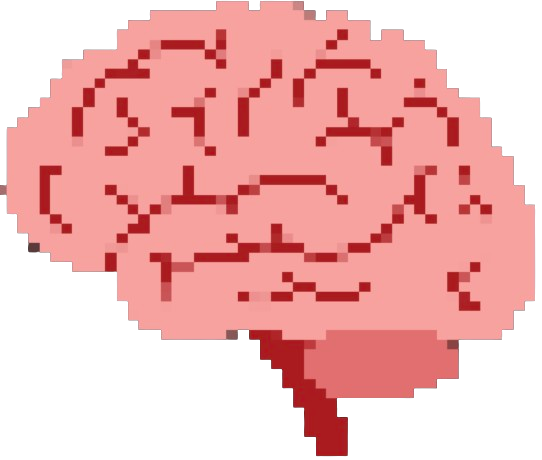
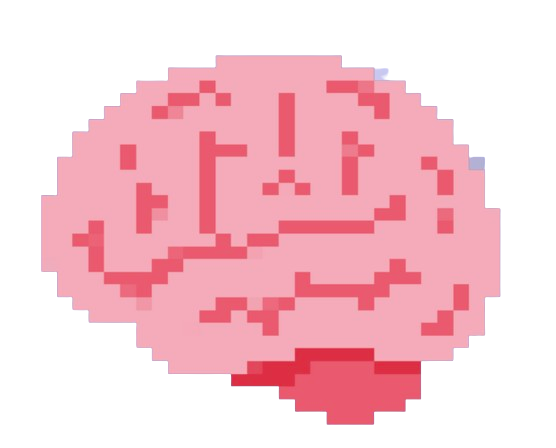
Add files via upload

diff --git a/script.js b/script.js
@@ -4,83 +4,130 @@ const boardWidth = 5;
 const boardHeight = 5;
 const stepSize = 50;
 
-// Add event listener for the DOMContentLoaded to initialize the page appropriately
-document.addEventListener('DOMContentLoaded', function ()
- {
+// Add event listener for the DOMContentLoaded to initialize page
+document.addEventListener('DOMContentLoaded', function() 
+{
   // Triggered when the start game button is clicked
   let startButton = document.getElementById('startButton');
   if (startButton) 
   {
     startButton.addEventListener('click', clicked);
   }
+  else 
+  {
+    scatterBrains(10);
+  }
 
-  // Set up character movement if on the game page
+  // Set up character image movement on game page
   appendCharacterImage();
   document.addEventListener('keydown', moveCharacter);
+  scatterBrains();
 });
 
-function clicked() {
+function clicked()
+ {
   let selectedLevel = document.querySelector('input[name="level"]:checked');
   let selectedCharacter = document.querySelector('input[name="character"]:checked');
-  
-  if (!selectedLevel || !selectedCharacter) {
+
+  if (!selectedLevel || !selectedCharacter)
+  // if user does not select a game & a character before starting
+  {
     alert("Please select both a difficulty level and a character before starting the game.");
     return;
   }
-  
+
   let levelValue = selectedLevel.value;
   let characterImageSrc = selectedCharacter.nextElementSibling.src;
 
   window.location.href = `${levelValue}Page.html?character=${encodeURIComponent(characterImageSrc)}`;
+  /* JS statement that changes the current page's URL to a new one
+     window.location.href means current URL of browser window 
+     ${levelValue}Page.html - ${levelValue} means variable or value representing the level
+     ?character=${encodeURIComponent(characterImageSrc)} is a query string appeneded to the URL
+      - question mark followed by key value pairs
+  encodeURIComponent(characterImageSrc) encodes special characters in characterImageSrc
+  */
 }
 
-function appendCharacterImage() {
-  let params = new URLSearchParams(window.location.search);
+function appendCharacterImage()
+ {
+  let params = new URLSearchParams(window.location.search); /* extracts the character 
+  value from URL */
   let characterImageSrc = params.get('character');
-  if (characterImageSrc) {
+  if (characterImageSrc)
+  {
     let characterImage = document.createElement('img');
     characterImage.src = characterImageSrc;
     characterImage.alt = 'Selected Character';
-    characterImage.id = 'character'; // Add an ID to the character image for easy selection
-    
-    let container = document.getElementById('right-container');
-    if (container) {
-      container.appendChild(characterImage);
-      adjustCharacterInitialPosition();
+    characterImage.id = 'character';// This adds an ID to the character image 
+    let container = document.getElementById('right-container'); /* used to structure
+    content in EasyPage.html and HardPage.html */
+    if (container)
+    {
+      container.appendChild(characterImage); /*  the newly created characterImage is 
+      appended to this container using container.appendChild(characterImage) */
+      adjustCharacterInitialPosition(); /* set the initial position of the character
+       image within the container */
     }
   }
 }
 
-function adjustCharacterInitialPosition() {
-  // Initial position for the character can be set here, after the image is appended
+function adjustCharacterInitialPosition()  
+{
+  // Get the character element by its ID
   const character = document.getElementById('character');
-  if (character) {
+  if (character)  // Check if the character element exists
+  {
     character.style.position = 'absolute';
-    character.style.left = '0px';
+    character.style.left = '0px'; // Set the initial left position to 0 pixels
     character.style.top = '0px';
   }
 }
 
-function moveCharacter(event) {
-  // This handler will only be attached if the character image exists on the page
+// Function to scatter brain images randomly across the body of the HTML document
+function scatterBrains(numBrains) 
+{
+  for (let i = 0; i < numBrains; i++)    
+  // Loop to create and position a specified number of brain images
+  {
+    const brain = document.createElement('img');
+    brain.src = 'brain.png';
+    brain.className = 'brain';
+     // CSS class for styling purposes
+    const x = Math.random() * (window.innerWidth - 50);
+    // Generate random x and y coordinates within the window boundaries
+    const y = Math.random() * (window.innerHeight - 50);
+    brain.style.left = `${x}px`;
+    brain.style.top = `${y}px`;
+    document.body.appendChild(brain);  // Append the brain image to the body of the HTML document
+  }
+}
+
+function moveCharacter(event) 
+{
+  // If the character image exists on the page, this function is applied 
   const character = document.getElementById('character');
-  
-  if (character) {
-    switch (event.key) {
+
+  if (character) 
+  {
+    switch (event.key) /* This is how many pixels at a time the user can move their 
+     key at in a specified direction */
+    {
       case 'ArrowUp':
-        posY = Math.max(0, posY - stepSize);
+        posY -= 20;
         break;
       case 'ArrowDown':
-        posY = Math.min((boardHeight - 1) * stepSize, posY + stepSize);
+        posY += 20;
         break;
       case 'ArrowLeft':
-        posX = Math.max(0, posX - stepSize);
+        posX -= 20;
         break;
       case 'ArrowRight':
-        posX = Math.min((boardWidth - 1) * stepSize, posX + stepSize);
+        posX += 20;
         break;
     }
-  
+
+// Update the top / left style of character to show the new position:
     character.style.top = `${posY}px`;
     character.style.left = `${posX}px`;
   }

diff --git a/EasyPage.html b/EasyPage.html
@@ -2,53 +2,19 @@
 <html>
 
 <head>
- <script src="script.js" defer></script>
+  <script src="script.js" defer></script>
   <meta charset="utf-8">
   <title>Easy Level</title>
-  <style>
-    body {
-      background-color: rgb(210, 210, 255);
-      margin: 0;
-      padding: 0;
-      height: 100vh; /* Full viewport height (the area of the browser in which 
-      				    a website is displayed */
-    }
-
-    #left-container {
-      position: absolute;
-      left: 0;
-      top: 50%;
-      transform: translateY(-50%); /* Centers the container vertically */
-    }
-
-    #right-container {
-      position: absolute;
-      right: 0;
-      top: 50%;
-      transform: translateY(-50%); 
-    }
-
-    h1 {
-      margin: 0;
-    }
-
-    img {
-      display: block; /* Removes bottom space under the image */
-      max-width: 100%; /* Maximum width of an element */
-      max-height: 100vh;  
-    }
-
-  </style>
+  <link rel="stylesheet" href="maze.css">
 </head>
 
 <body>
-  <div id="left-container">
-    <h1>Easy Level</h1>
-  </div>
+  <h1>Easy Level</h1>
 
   <div id="right-container">
-    <img src="EasyMaze.png" alt="Easy Maze">
   </div>
+
+  <script src="script.js"></script>
 </body>
 
 </html>

diff --git a/HardPage.html b/HardPage.html
@@ -2,37 +2,19 @@
 <html>
 
 <head>
- <script src="script.js" defer></script><!-- Script executed after the document has 
-been parsed -->
-
-    <meta charset="utf-8">
-    <title>Hard Level</title>
-    <style>
-        body {
-            position: absolute; 
-            background-color: rgb(210, 210, 255);
-            align-items: center;
-            justify-content: center;
-            margin: 0;
-        }
-
-        h1 {
-            text-align: center;
-        }
-
-        #right-container {
-            text-align: center; /*Centers  character image below the maze */
-        }
-    </style>
+  <script src="script.js" defer></script>
+  <meta charset="utf-8">
+  <title>Hard Level</title>
+  <link rel="stylesheet" href="maze.css">
 </head>
 
 <body>
-    <h1>Hard Level</h1>
-    <img src="HardMaze.png" alt="Hard Maze" width="700">
+  <h1>Hard Level</h1>
 
-    <div id="right-container">
-      <!-- The character image will be appended here by script.js -->
-    </div>
+  <div id="right-container">
+  </div>
 
+  <script src="script.js"></script>
 </body>
+
 </html>

diff --git a/maze.css b/maze.css
@@ -23,6 +23,7 @@ h3 {
     left: 875px;
 }
 
+
 img[alt="Game Info"] {
     position: absolute;
     top: 120px; 
@@ -76,4 +77,14 @@ button {
   top: 0;
   left: 0;
   transition: top 0.2s, left 0.2s;
+}
+
+.brain {
+  width: 15%;
+  position: absolute;
+}
+
+#character {
+ z-index: 100;
+  width: 15%;
 }

diff --git a/index.html b/index.html
@@ -94,6 +94,5 @@
   <script src="script.js"></script>
   <br><br><br>
   <script src="script.js">
-</body>
-</body>
-</html>
+    </body >
+    </html >
